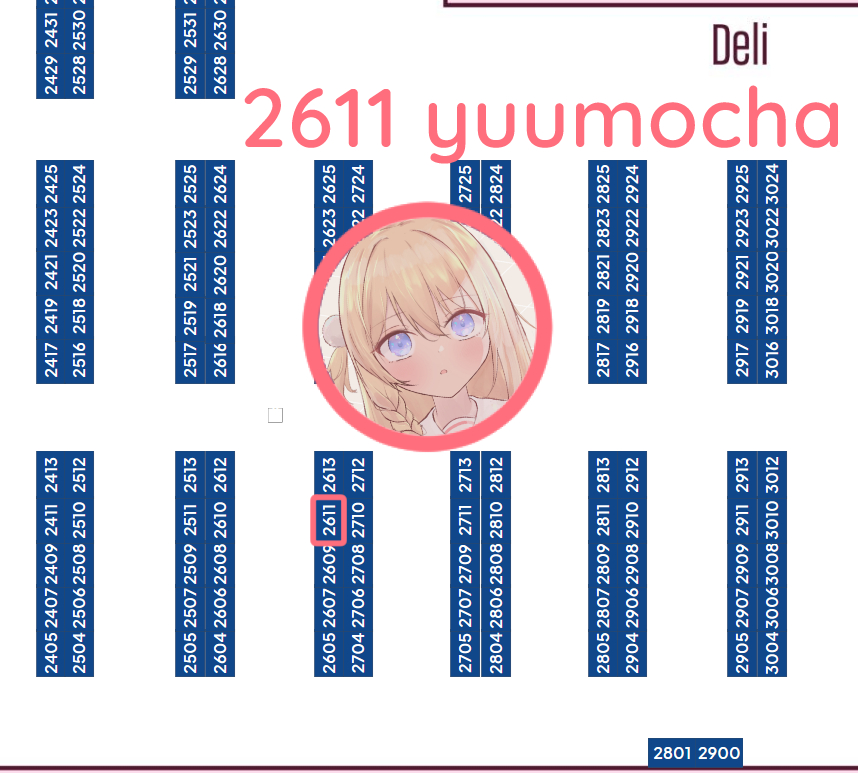
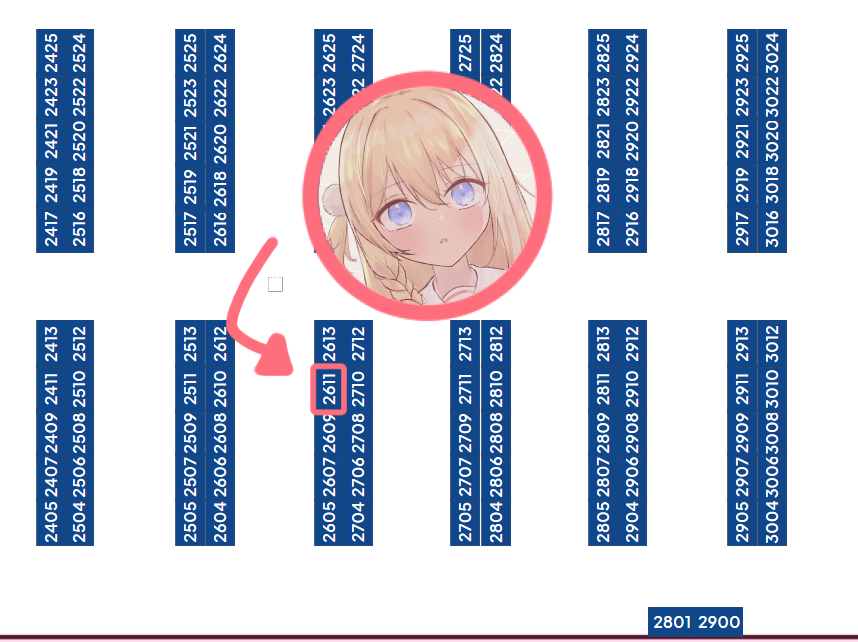
Update portfolio content

diff --git a/index.html b/index.html
@@ -108,10 +108,10 @@
                                      /images/portfolio/illustration/iky.jpg?nf_resize=fit&w=900 900w"
                              sizes="(max-width: 640px) 100vw, (max-width: 1024px) 50vw, 33vw"
                              alt="Azusa character illustration" 
-                             class="w-full h-full object-cover">
+                             class="max-h-full max-w-full object-contain">
                     </div>
                     <div class="p-4">
-                        <h3 class="text-xl font-medium text-gray-800 mb-2">Azusa Illustration</h3>
+                        <h3 class="text-xl font-medium text-gray-800 mb-2"></h3>
                         <p class="text-gray-600">Digital Illustration</p>
                     </div>
                 </div>
@@ -119,17 +119,17 @@
                 <!-- Featured Item 2 -->
                 <div class="bg-white rounded-lg overflow-hidden shadow-md hover:shadow-lg transition duration-300 mx-auto w-full max-w-xs">
                     <div class="h-72 flex items-center justify-center bg-gray-50">
-                        <img src="/images/featured/Illustration.jpg?nf_resize=fit&w=600" 
-                             srcset="/images/featured/Illustration.jpg?nf_resize=fit&w=320 320w,
-                                     /images/featured/Illustration.jpg?nf_resize=fit&w=600 600w,
-                                     /images/featured/Illustration.jpg?nf_resize=fit&w=900 900w"
+                        <img src="/images/portfolio/illustration/kita.jpg?nf_resize=fit&w=600" 
+                             srcset="/images/portfolio/illustration/kita.jpg?nf_resize=fit&w=320 320w,
+                                    /images/portfolio/illustration/kita.jpg?nf_resize=fit&w=600 600w,
+                                    /images/portfolio/illustration/kita.jpg?nf_resize=fit&w=900 900w"
                              sizes="(max-width: 640px) 100vw, (max-width: 1024px) 50vw, 33vw"
                              alt="Hutao chibi artwork" 
-                             class="w-full h-full object-cover">
+                             class="max-h-full max-w-full object-contain">
                     </div>
                     <div class="p-4">
-                        <h3 class="text-xl font-medium text-gray-800 mb-2">Hutao Chibi</h3>
-                        <p class="text-gray-600">Digital Art</p>
+                        <h3 class="text-xl font-medium text-gray-800 mb-2"></h3>
+                        <p class="text-gray-600">Digital Illustration</p>
                     </div>
                 </div>
 
@@ -138,12 +138,12 @@
                     <div class="h-72 flex items-center justify-center bg-gray-50">
                         <img src="/images/portfolio/illustration/sana.jpg" 
                              alt="Emote design showcase" 
-                             class="w-full h-full object-cover"
+                             class="max-h-full max-w-full object-contain"
                              data-no-optimize>
                     </div>
                     <div class="p-4">
-                        <h3 class="text-xl font-medium text-gray-800 mb-2">Emote Design</h3>
-                        <p class="text-gray-600">Concept Art</p>
+                        <h3 class="text-xl font-medium text-gray-800 mb-2"></h3>
+                        <p class="text-gray-600">Digital Illustration</p>
                     </div>
                 </div>
                  <!-- Featured Item 4 -->
@@ -151,12 +151,12 @@
                     <div class="h-72 flex items-center justify-center bg-gray-50">
                         <img src="/images/portfolio/illustration/nyfuuka.jpg" 
                              alt="Emote design showcase" 
-                             class="w-full h-full object-cover"
+                             class="max-h-full max-w-full object-contain"
                              data-no-optimize>
                     </div>
                     <div class="p-4">
-                        <h3 class="text-xl font-medium text-gray-800 mb-2">Emote Design</h3>
-                        <p class="text-gray-600">Concept Art</p>
+                        <h3 class="text-xl font-medium text-gray-800 mb-2"></h3>
+                        <p class="text-gray-600">Digital Illustration</p>
                     </div>
                 </div>
             </div>

diff --git a/js/conventions-ui.js b/js/conventions-ui.js
@@ -214,13 +214,13 @@ function renderCurrentTab() {
           <div class="bg-gray-50 p-6">
             <div class="grid grid-cols-1 md:grid-cols-2 gap-6">
               <!-- Left Image -->
-              <div class="bg-white p-4 rounded-lg shadow-sm">
-                <div class="h-64 flex items-center justify-center overflow-hidden">
+              <div class="bg-white p-4 rounded-lg shadow-sm h-full">
+              <div class="h-full w-full flex items-center justify-center overflow-hidden">
                   ${convention.mapImage ? 
                     `<div class="map-gallery w-full h-full">
                       <a href="${convention.mapImage}" class="block">
-                        <div class="relative w-full h-full">
-                          <img src="${convention.mapImage}" alt="Artist Alley Map" class="w-full h-full object-contain rounded-lg max-w-full max-h-full">
+                          <div class="relative w-full h-full h-viewport">
+                          <img src="${convention.mapImage}" alt="Artist Alley Map" class="w-full h-full object-scale-down rounded-lg max-w-[90vw] mx-auto max-h-full md:max-h-[80vh]">
                           <div class="absolute inset-0 bg-black bg-opacity-20 opacity-0 hover:opacity-100 transition duration-300 flex items-center justify-center">
                             <div class="text-white bg-black bg-opacity-70 px-4 py-2 rounded-md">
                               <i class="fas fa-search-plus mr-2"></i>View
@@ -235,13 +235,13 @@ function renderCurrentTab() {
               </div>
               
               <!-- Right Image -->
-             <div class="bg-white p-4 rounded-lg shadow-sm">
-                <div class="h-64 flex items-center justify-center overflow-hidden">
+             <div class="bg-white p-4 rounded-lg shadow-sm h-full">
+                <div class="h-full w-full flex items-center justify-center overflow-hidden">
                   ${convention.mapImage2 ? 
                     `<div class="map-gallery w-full h-full">
                       <a href="${convention.mapImage2}" class="block">
-                        <div class="relative w-full h-full">
-                          <img src="${convention.mapImage2}" alt="Artist Alley Map" class="w-full h-full object-contain rounded-lg max-w-full max-h-full">
+                          <div class="relative w-full h-full h-viewport">
+                          <img src="${convention.mapImage2}" alt="Artist Alley Map" class="w-full h-full object-scale-down rounded-lg max-w-[90vw] mx-auto max-h-full md:max-h-[80vh]">
                           <div class="absolute inset-0 bg-black bg-opacity-20 opacity-0 hover:opacity-100 transition duration-300 flex items-center justify-center">
                             <div class="text-white bg-black bg-opacity-70 px-4 py-2 rounded-md">
                               <i class="fas fa-search-plus mr-2"></i>View

diff --git a/tailwind.config.js b/tailwind.config.js
@@ -23,6 +23,10 @@ module.exports = {
       },
       gridTemplateRows: {
         'masonry': 'masonry'
+      },
+      height: {
+        'viewport': '100vh',
+        'viewport-minus-header': 'calc(100vh - 4rem)'
       }
     },
   },

diff --git a/css/input.css b/css/input.css
@@ -2,6 +2,10 @@
 @tailwind components;
 @tailwind utilities;
 
+.h-viewport {
+  height: 100vh;
+}
+
 /* Custom styles */
 @layer components {
   .btn-primary {
